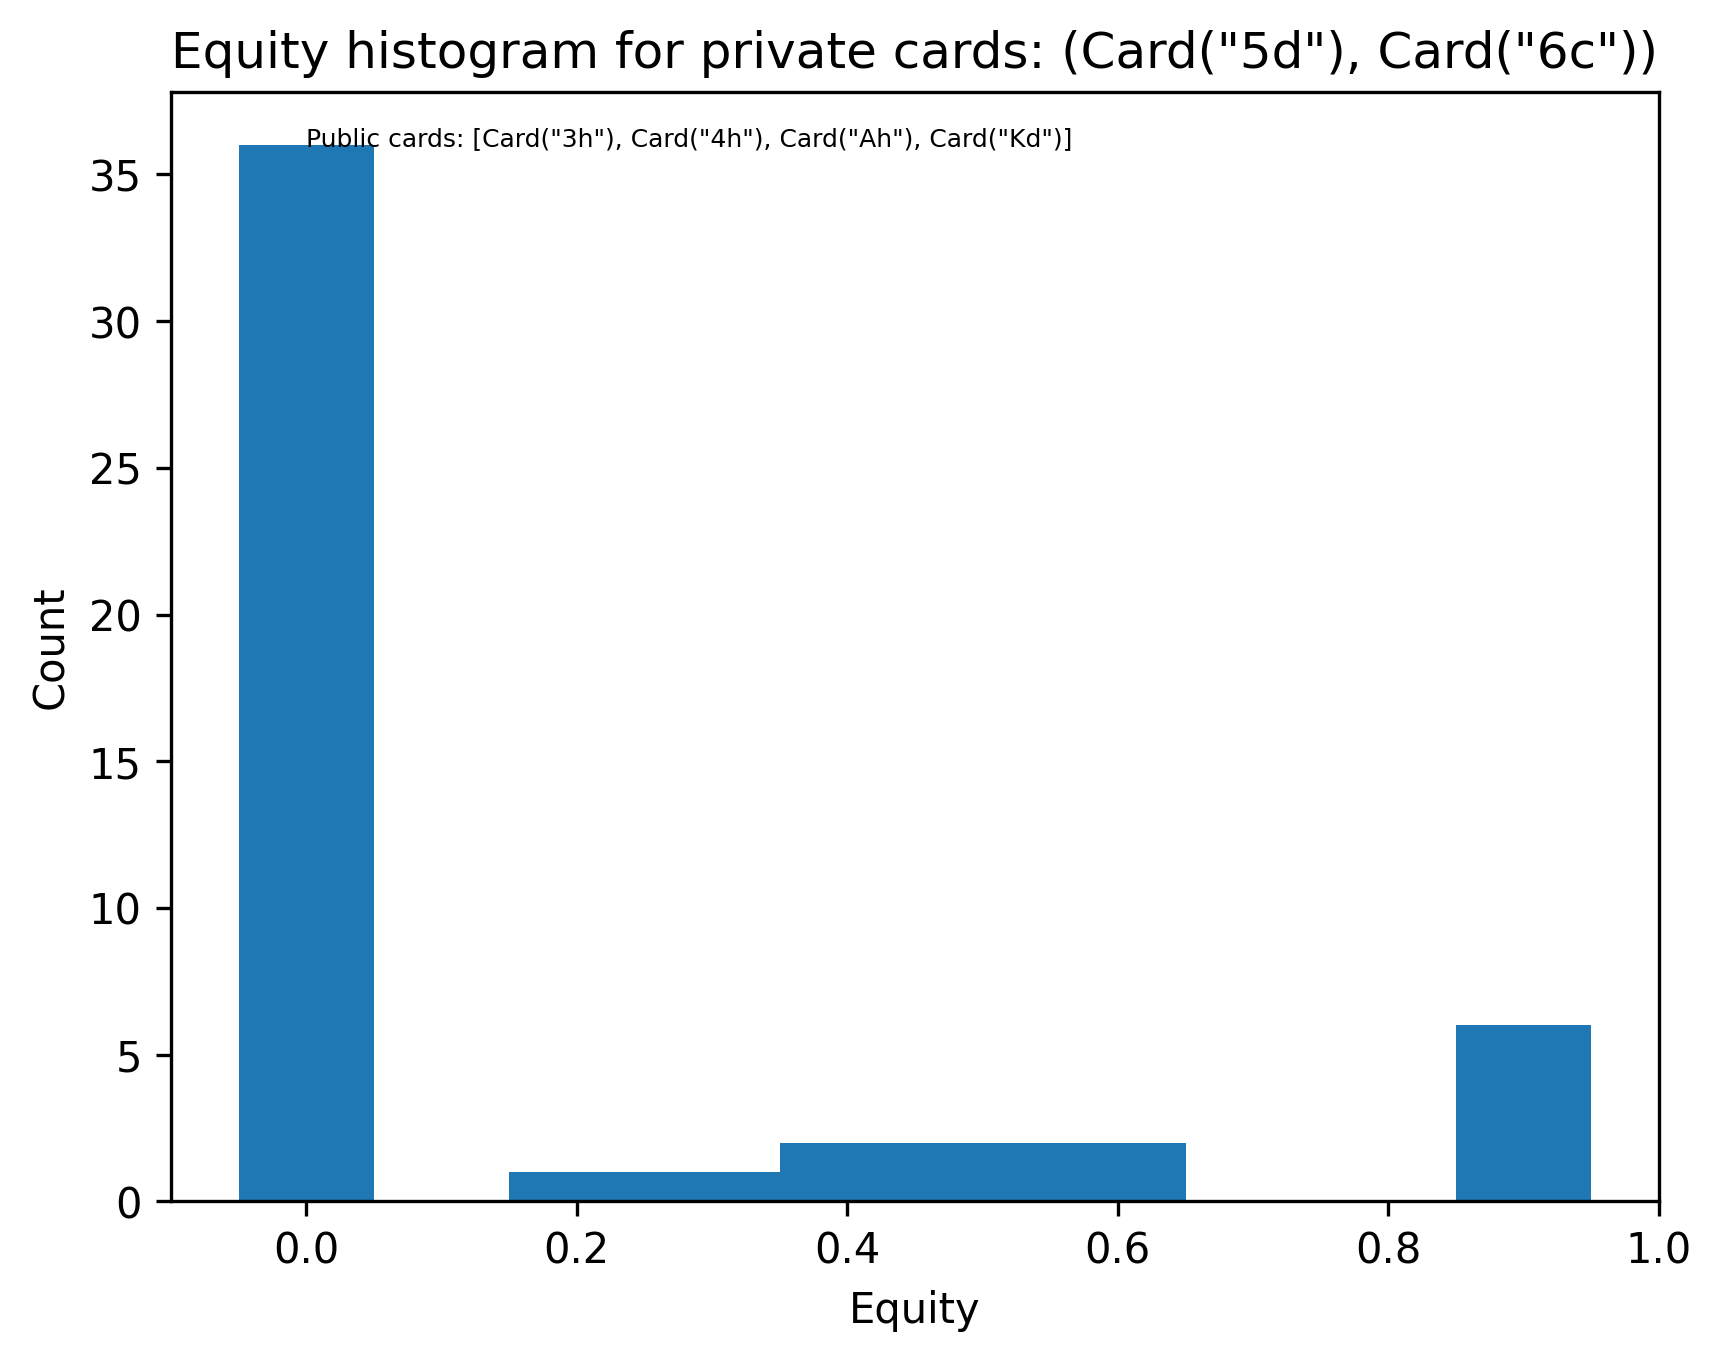
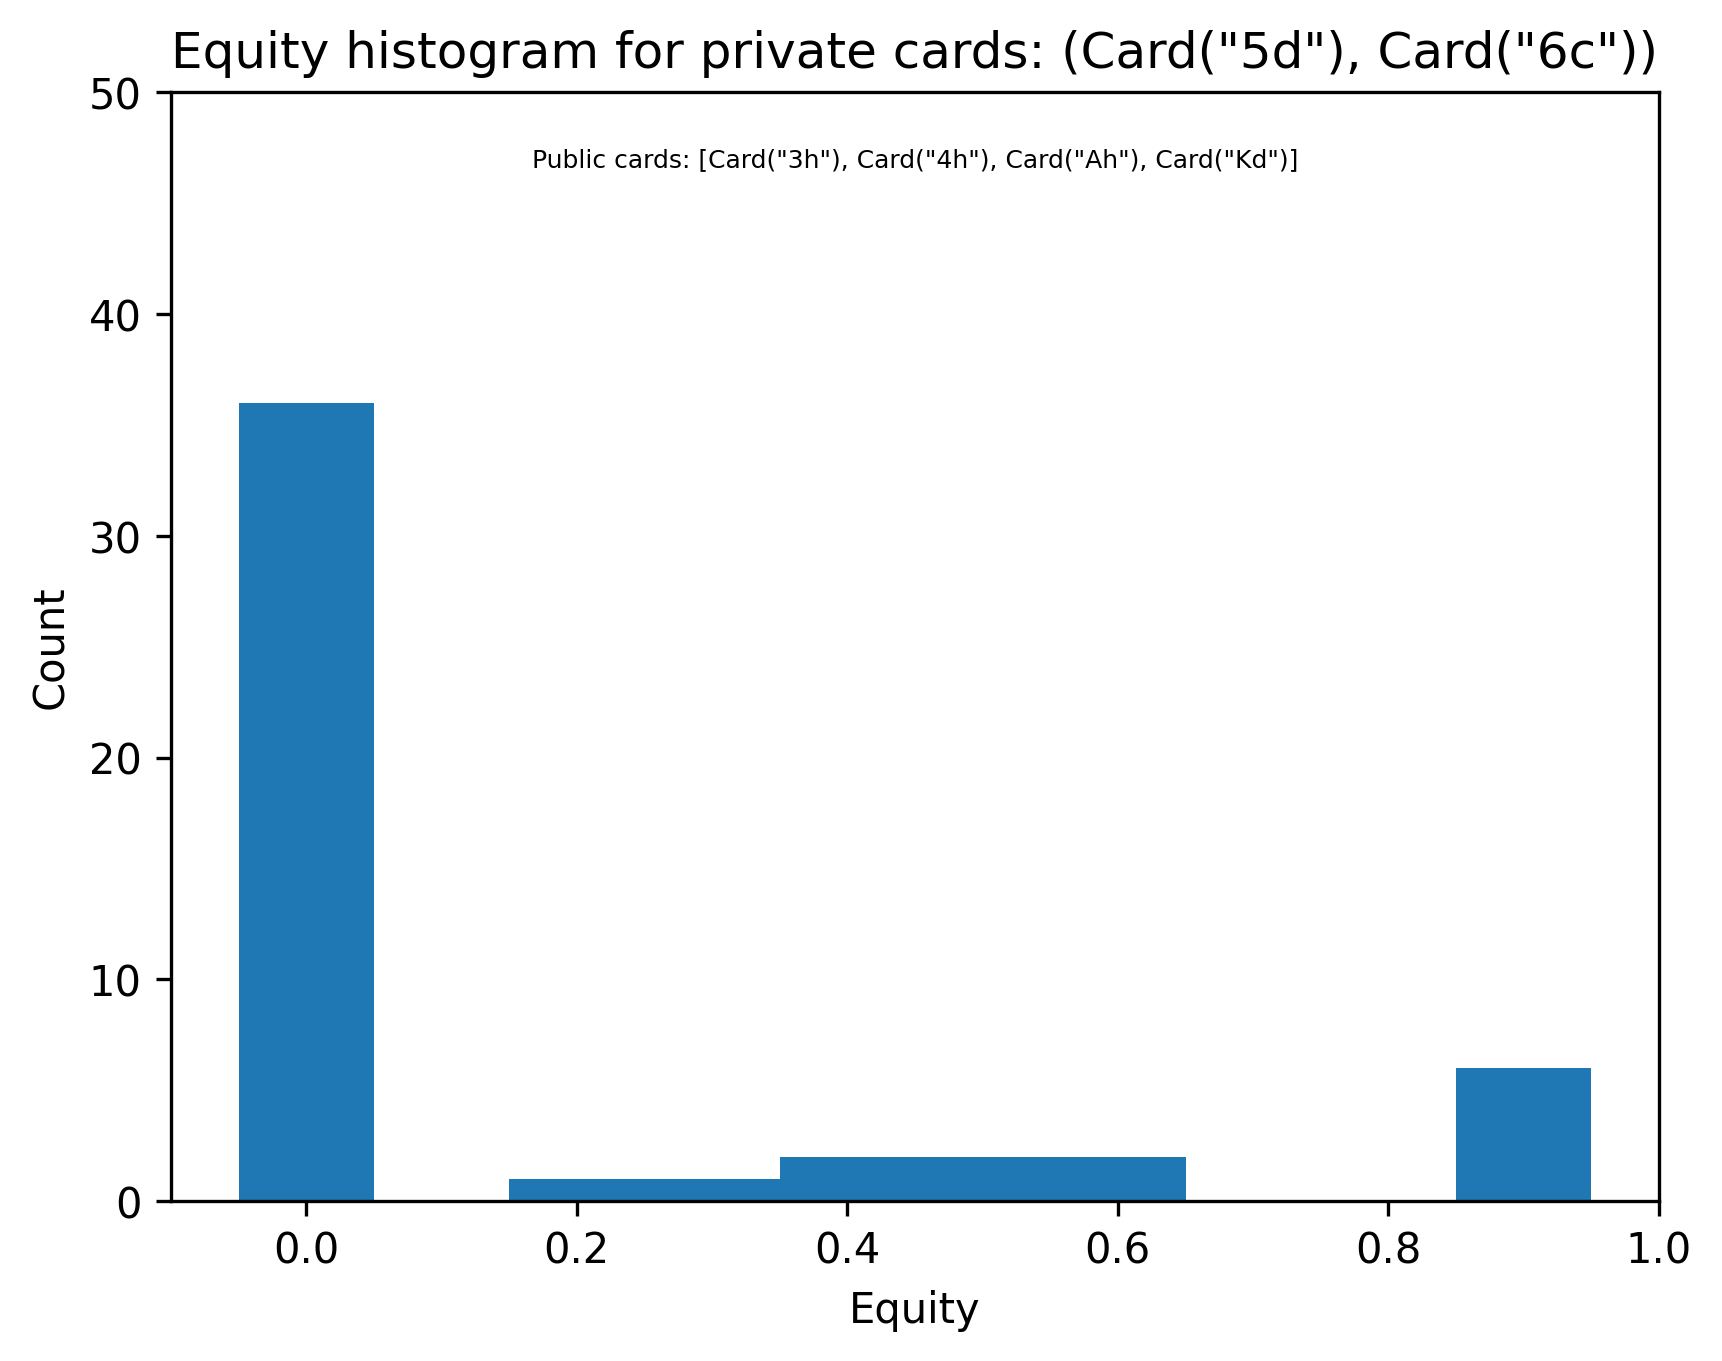
fixed graphs

diff --git a/scripts/generating_equity_distributions.py b/scripts/generating_equity_distributions.py
@@ -68,15 +68,18 @@ def generate_equity_distributions():
         plt.bar(x, histogram, width=1/N)
 
         plt.text(
-            0,
-            max(histogram),
+            0.5, 0.95,  # centered horizontally, near top vertically
             f"Public cards: {public_cards}",
-            fontsize=6
+            fontsize=6,
+            ha='center',
+            va='top',
+            transform=plt.gca().transAxes
         )
 
         plt.xlabel("Equity")
         plt.ylabel("Count")
         plt.title(f"Equity histogram for private cards: {private_card}")
+        plt.ylim(0, 50)
 
         # Ensure output directory exists
         os.makedirs("graphs", exist_ok=True)
@@ -178,5 +181,5 @@ def assign_equity_distributions():
     plt.savefig("./graphs/qualitative_tests.png", dpi=300, bbox_inches="tight")
     plt.close()
 if __name__ == "__main__":
-    #generate_equity_distributions()
+    generate_equity_distributions()
     assign_equity_distributions()
